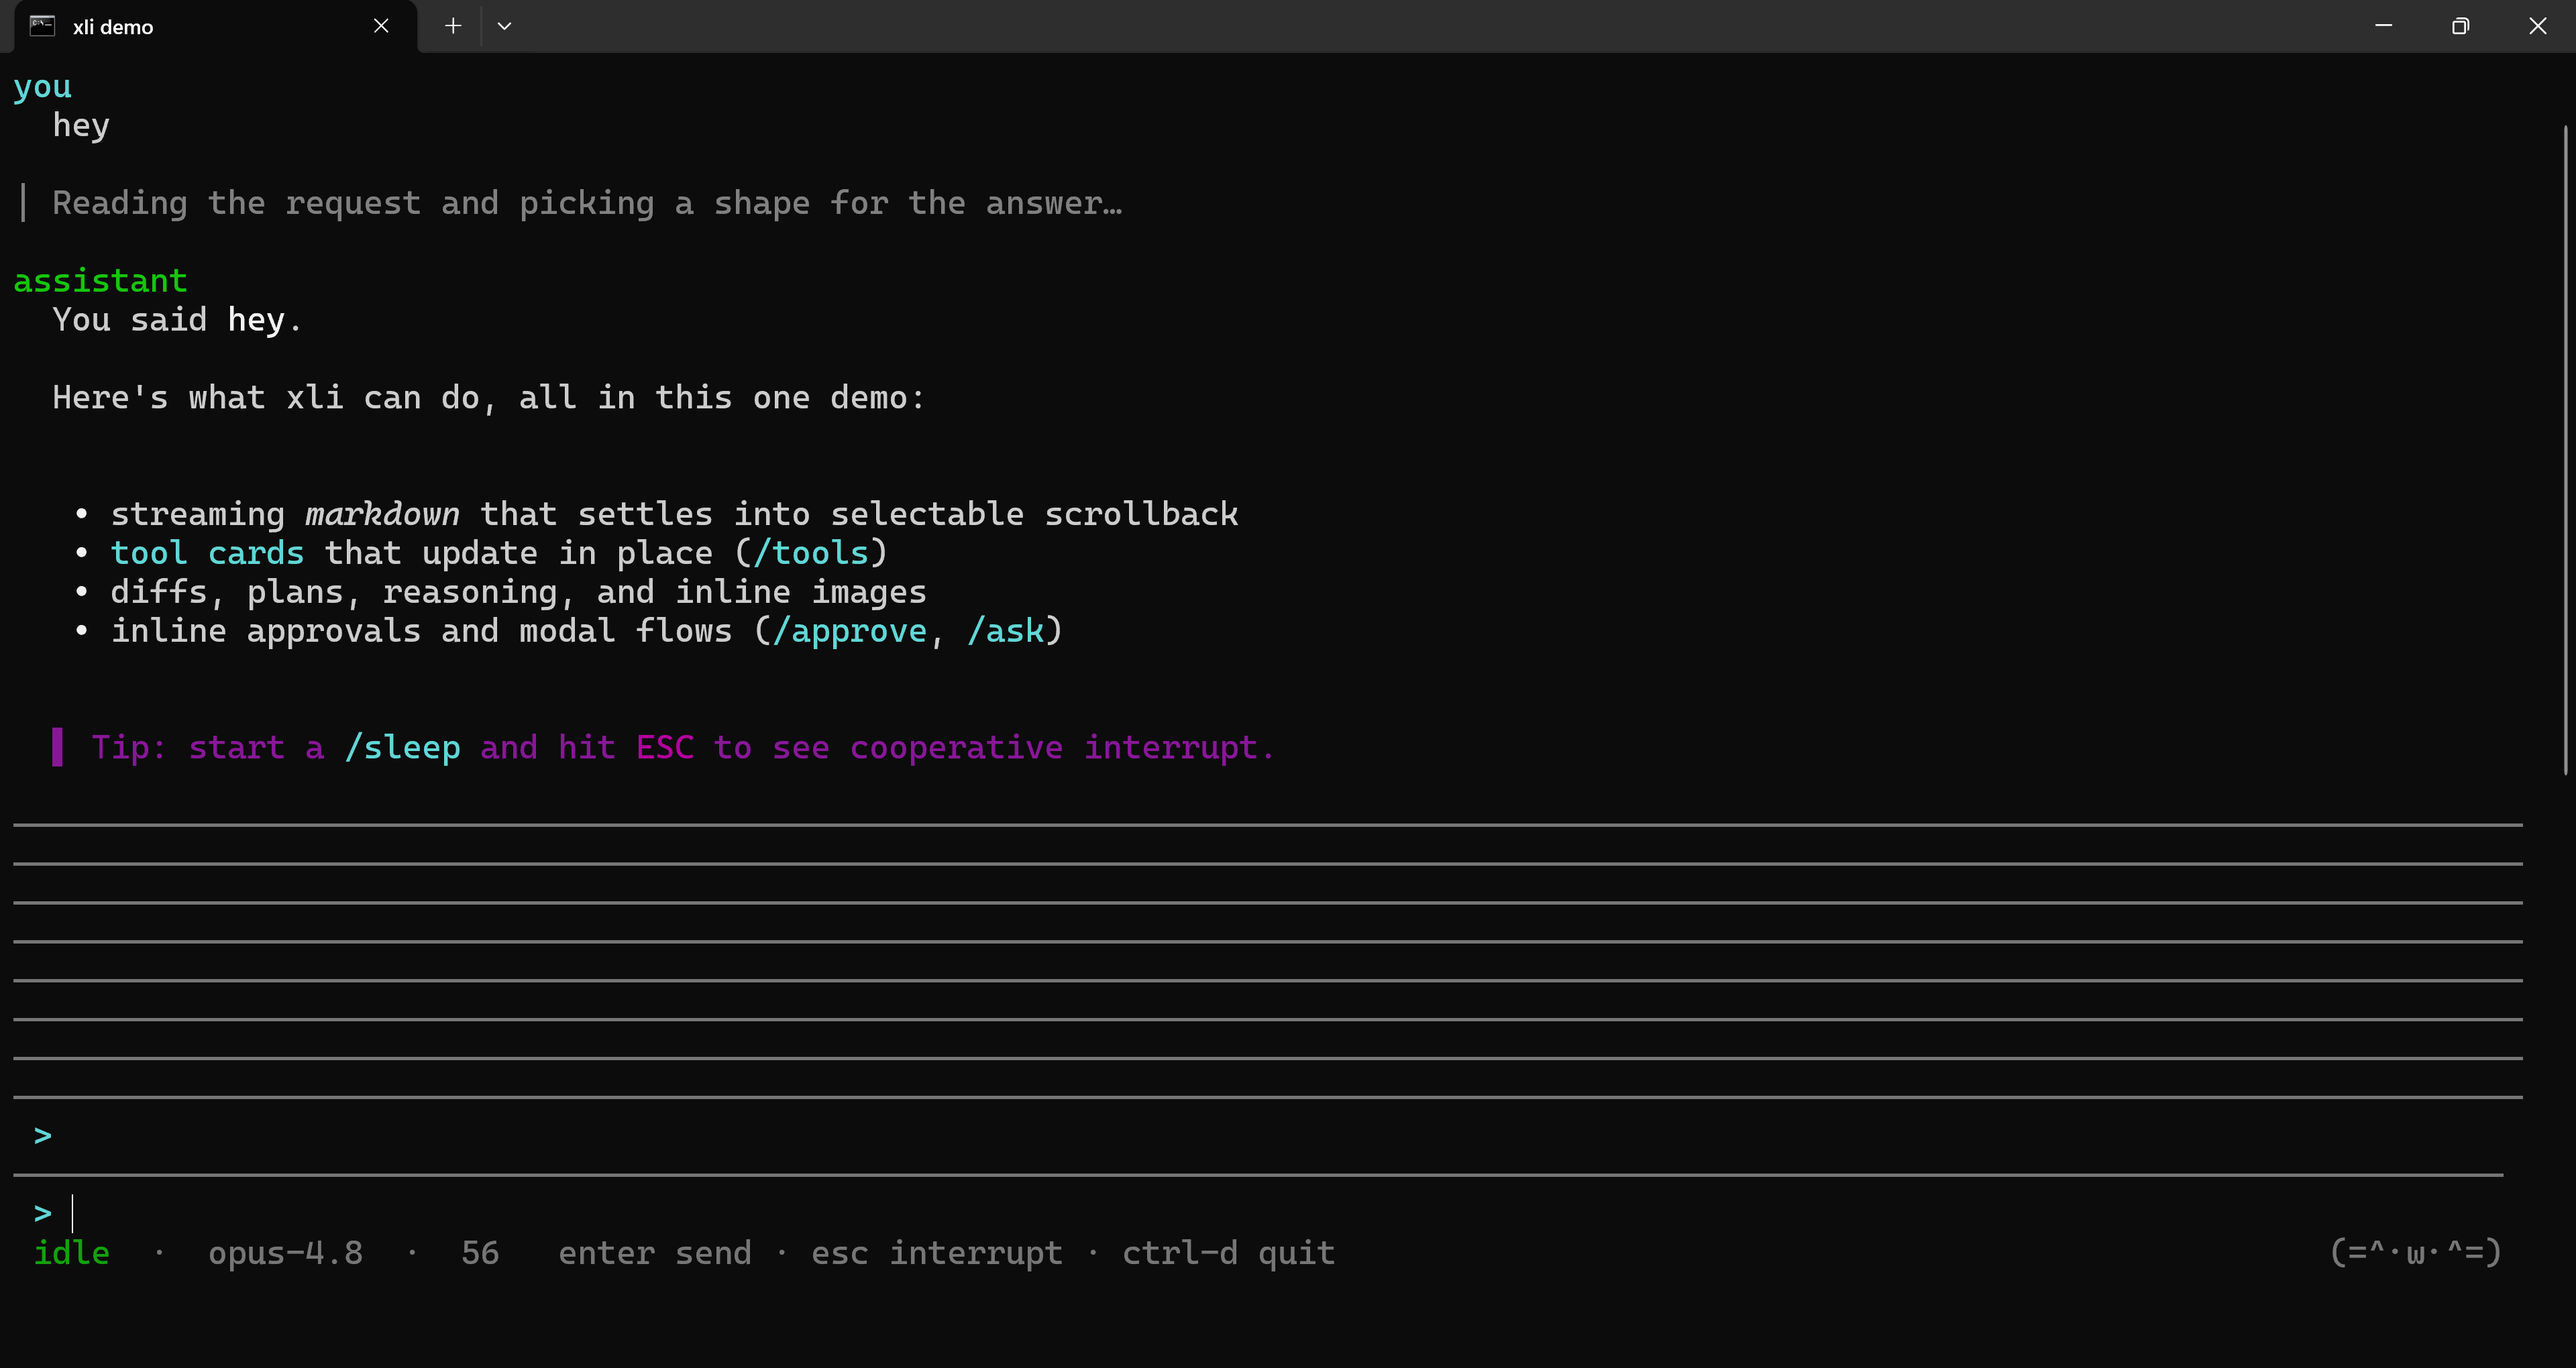
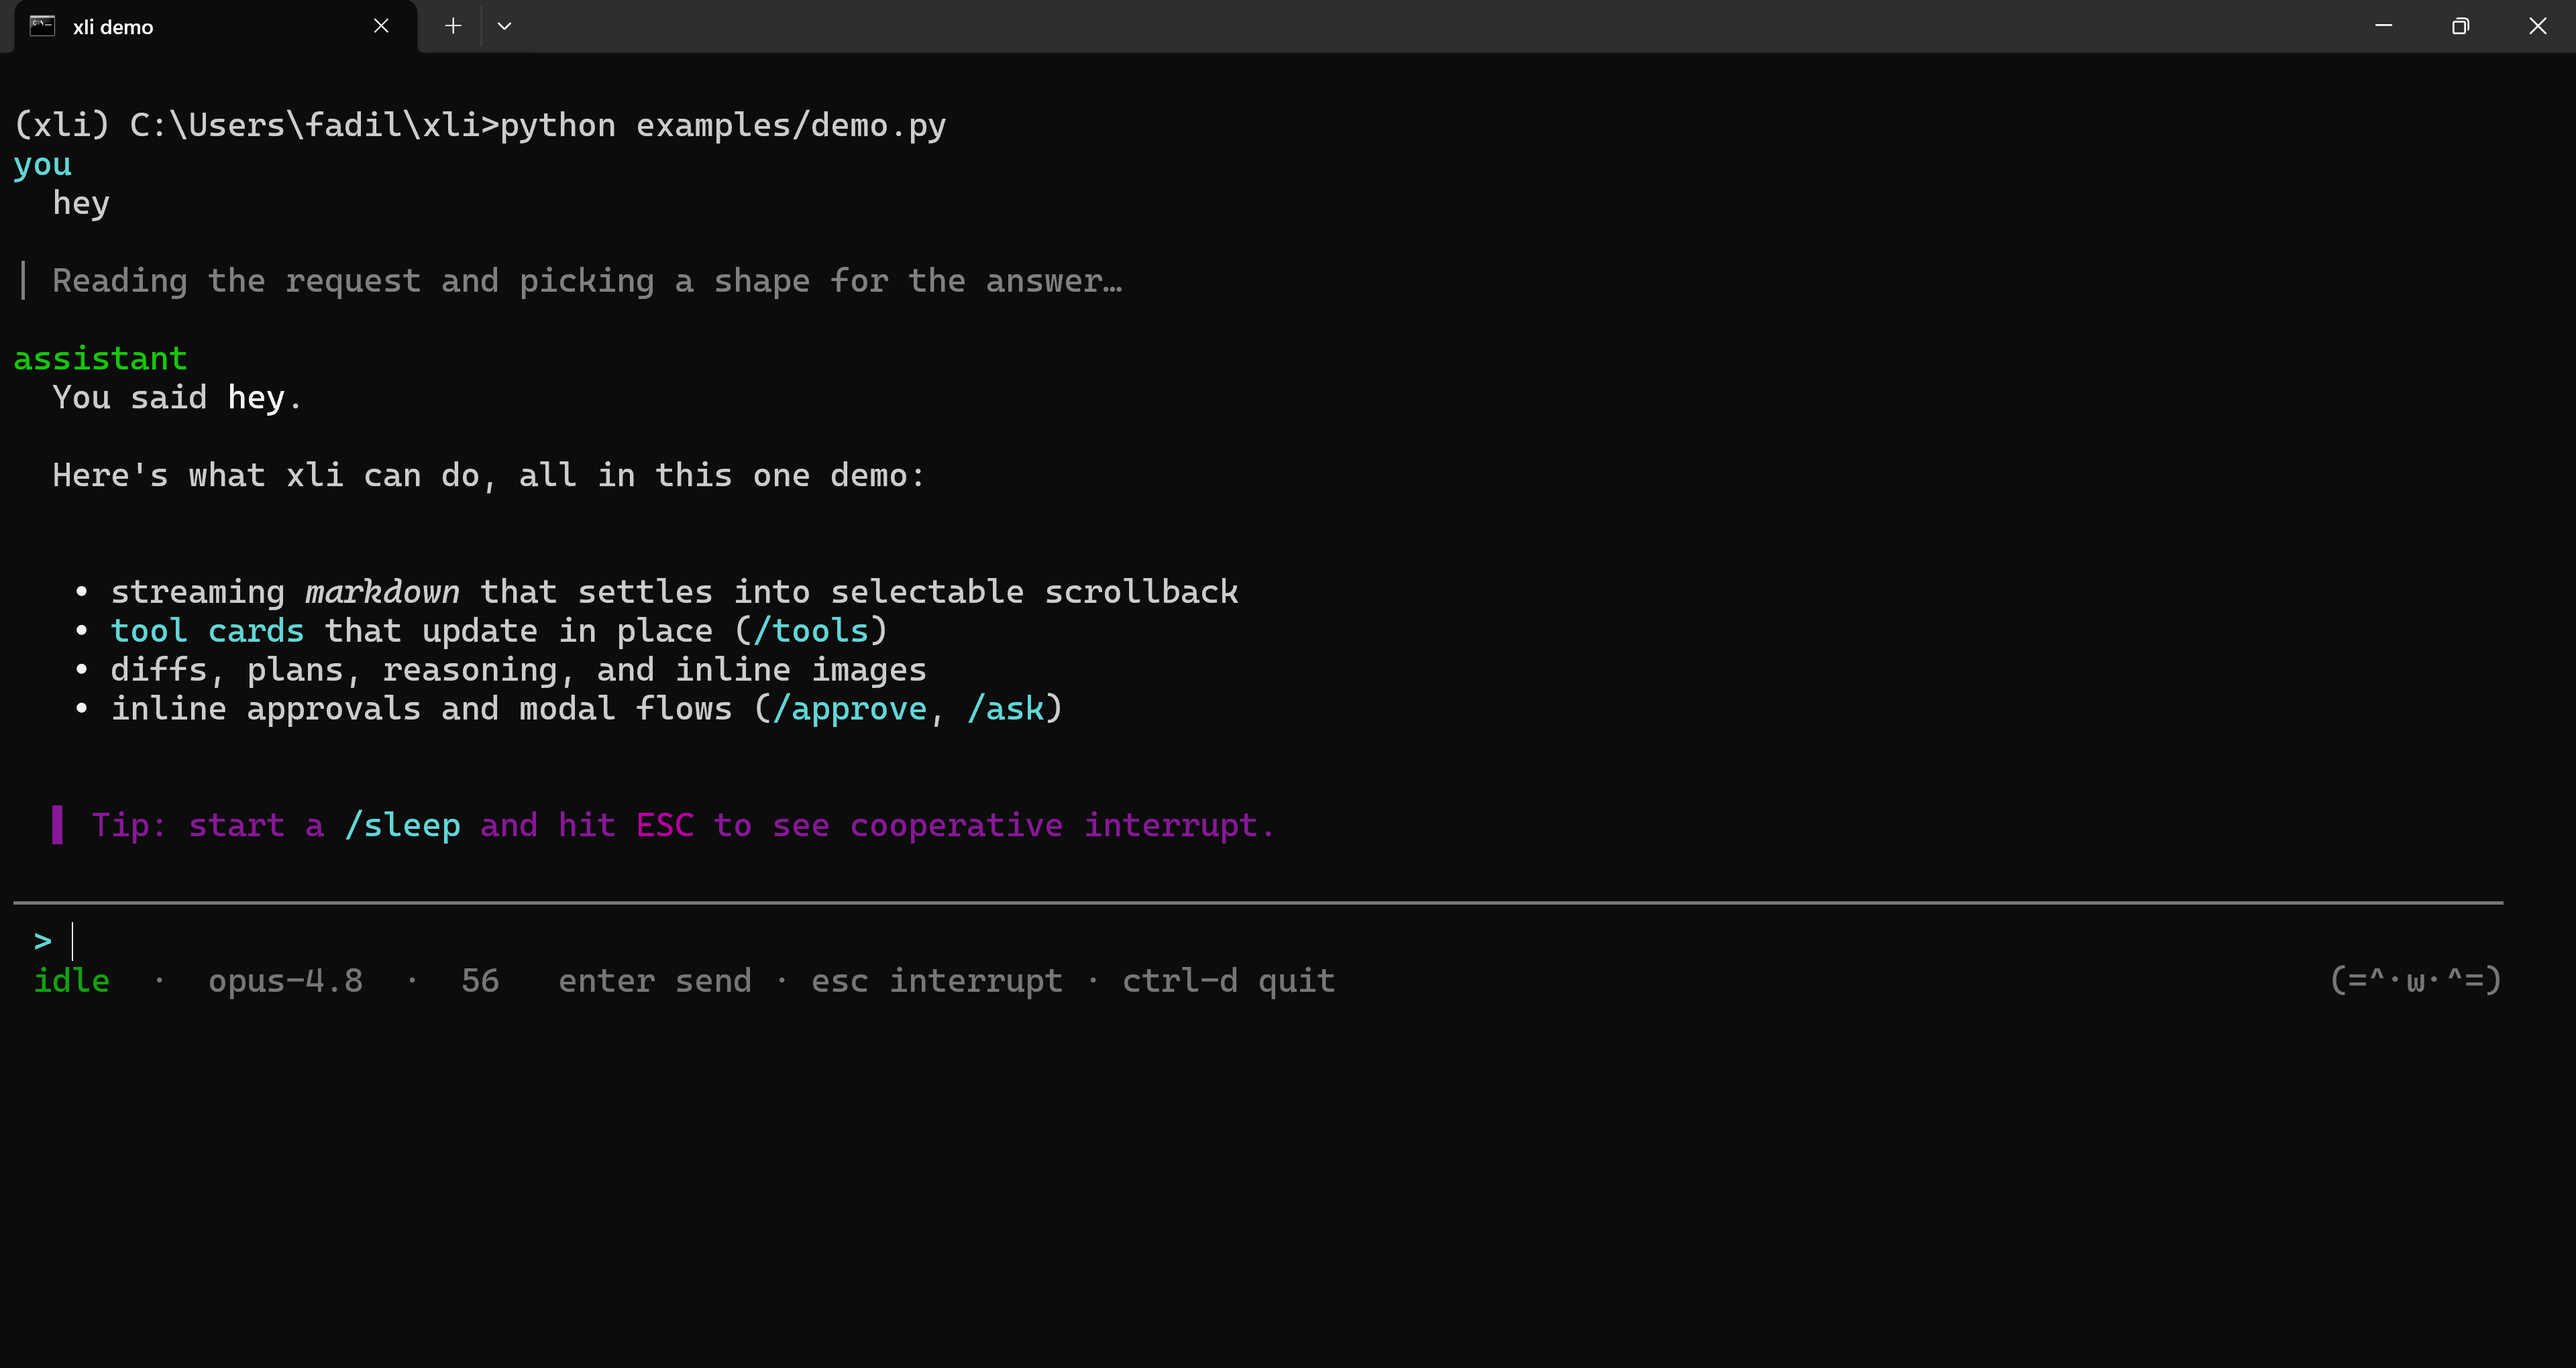
improve readme

diff --git a/README.md b/README.md
@@ -36,26 +36,48 @@ the screen.
 
 ---
 
-## 📸 Screenshots
+<table>
+<tr>
+<td align="center" width="33%">
 
-**Streaming transcript** — markdown renders token-by-token with a reasoning rail and themed status bar.
 ![initial](screesnhots/initial.png)
 
-**Slash commands** — typing `/` opens an inline command list with descriptions; no modal needed.
+**Streaming transcript**<br>Markdown renders token-by-token with a reasoning rail and themed status bar.
+</td>
+<td align="center" width="33%">
+
 ![options](screesnhots/options.png)
 
-**`@` file picker** — typing `@` surfaces files from the working directory so the user can reference them inline.
+**Slash commands**<br>Typing `/` opens an inline command list with descriptions — no modal needed.
+</td>
+<td align="center" width="33%">
+
 ![filepicker](screesnhots/filepicker.png)
 
-**Inline approval** — agent asks permission right in the transcript; arrow-select Yes / No, no screen takeover.
+**`@` file picker**<br>Typing `@` surfaces files from the working directory for inline reference.
+</td>
+</tr>
+<tr>
+<td align="center" width="33%">
+
 ![approval](screesnhots/approval.png)
 
-**`ui.pick()`** — arrow-navigable picker (or press 1–9) rendered inline while the agent waits.
+**Inline approval**<br>Agent asks permission right in the transcript — arrow-select Yes / No, no screen takeover.
+</td>
+<td align="center" width="33%">
+
 ![wizard](screesnhots/wizard.png)
 
-**Live tool card** — a shell command running in place with an animated spinner and elapsed timer.
+**`ui.pick()`**<br>Arrow-navigable picker (or press 1–9) rendered inline while the agent waits.
+</td>
+<td align="center" width="33%">
+
 ![runningtests](screesnhots/runningtests.png)
 
+**Live tool card**<br>A shell command running in place with an animated spinner and elapsed timer.
+</td>
+</tr>
+</table>
 
 ---
 
